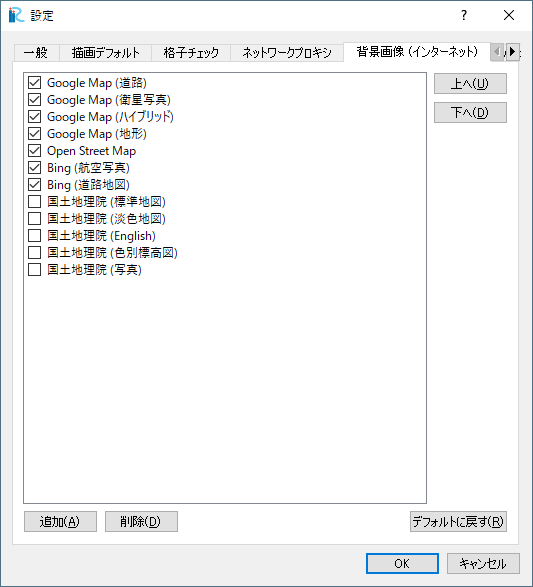
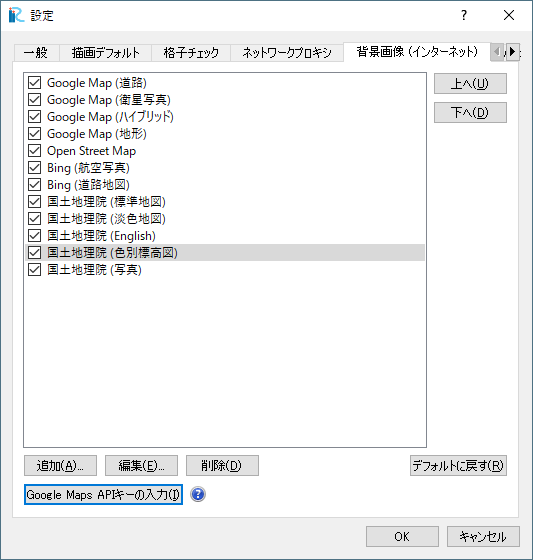
Description about Google Maps API key is added.

diff --git a/source/03/09_01_preference.rst b/source/03/09_01_preference.rst
@@ -85,6 +85,15 @@ iRIC GUI に関する一般的な設定を行います。
 
    設定ダイアログ（背景画像（インターネット））
 
+2018年、 Google は Google Maps サービスを Google Maps Platform に移行し、 iRIC上で背景画像として Google Maps
+の画像を利用するためには、APIキーを入力することが必要になりました。APIキーを、 "Google Maps APIキーの入力" ボタンから
+入力してください。
+
+APIキーを取得する方法については、以下の URL を参照してください。
+
+https://cloud.google.com/maps-platform/?hl=jp
+
+
 Web 標高データ タブ
 ~~~~~~~~~~~~~~~~~~~~~~
 
